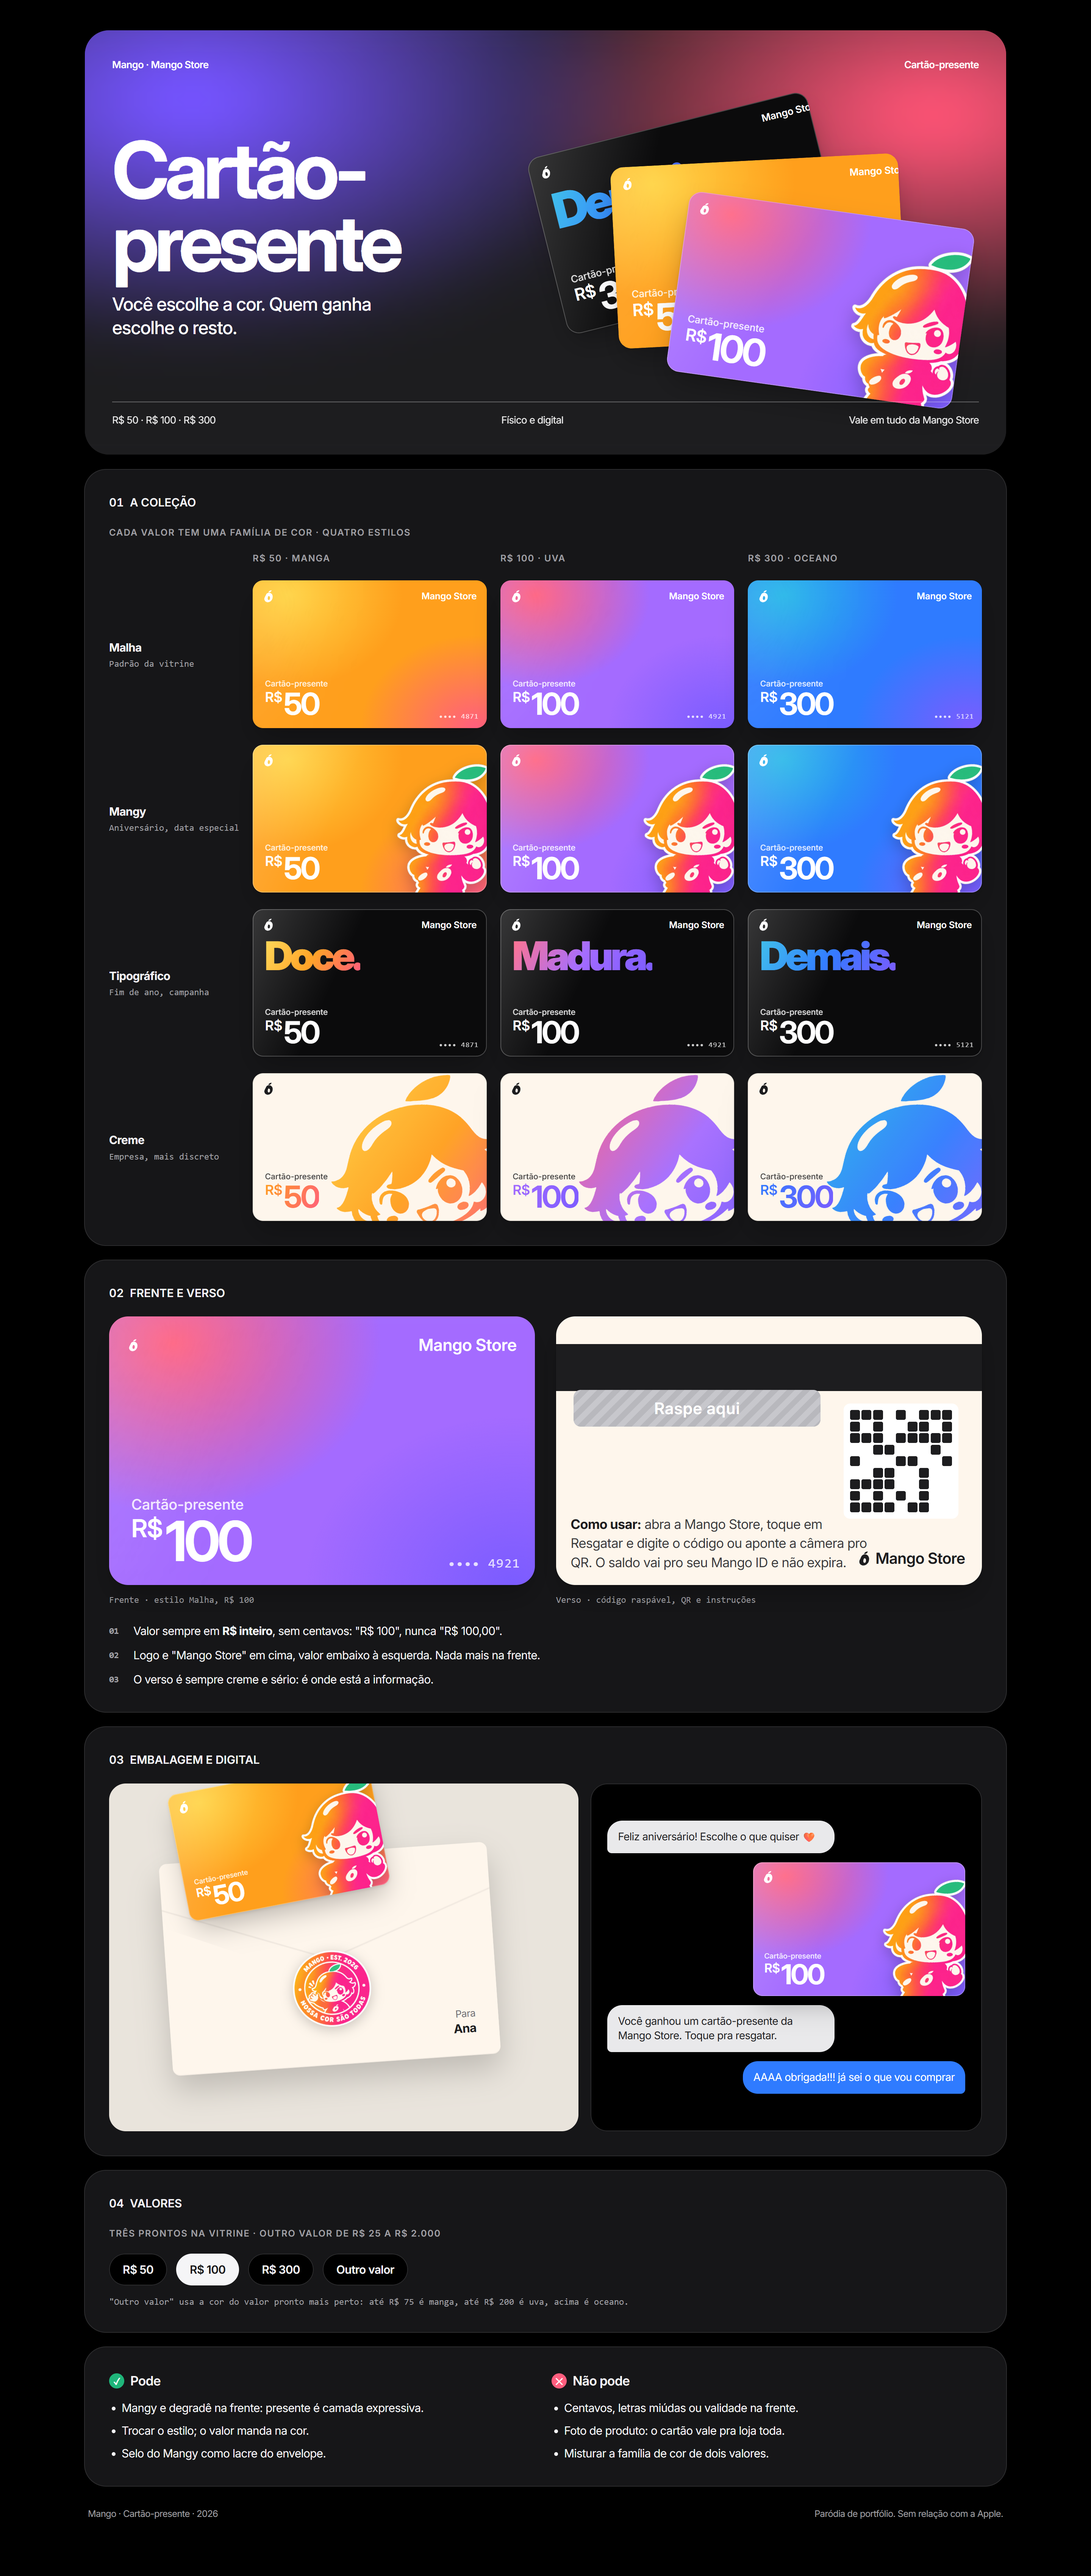
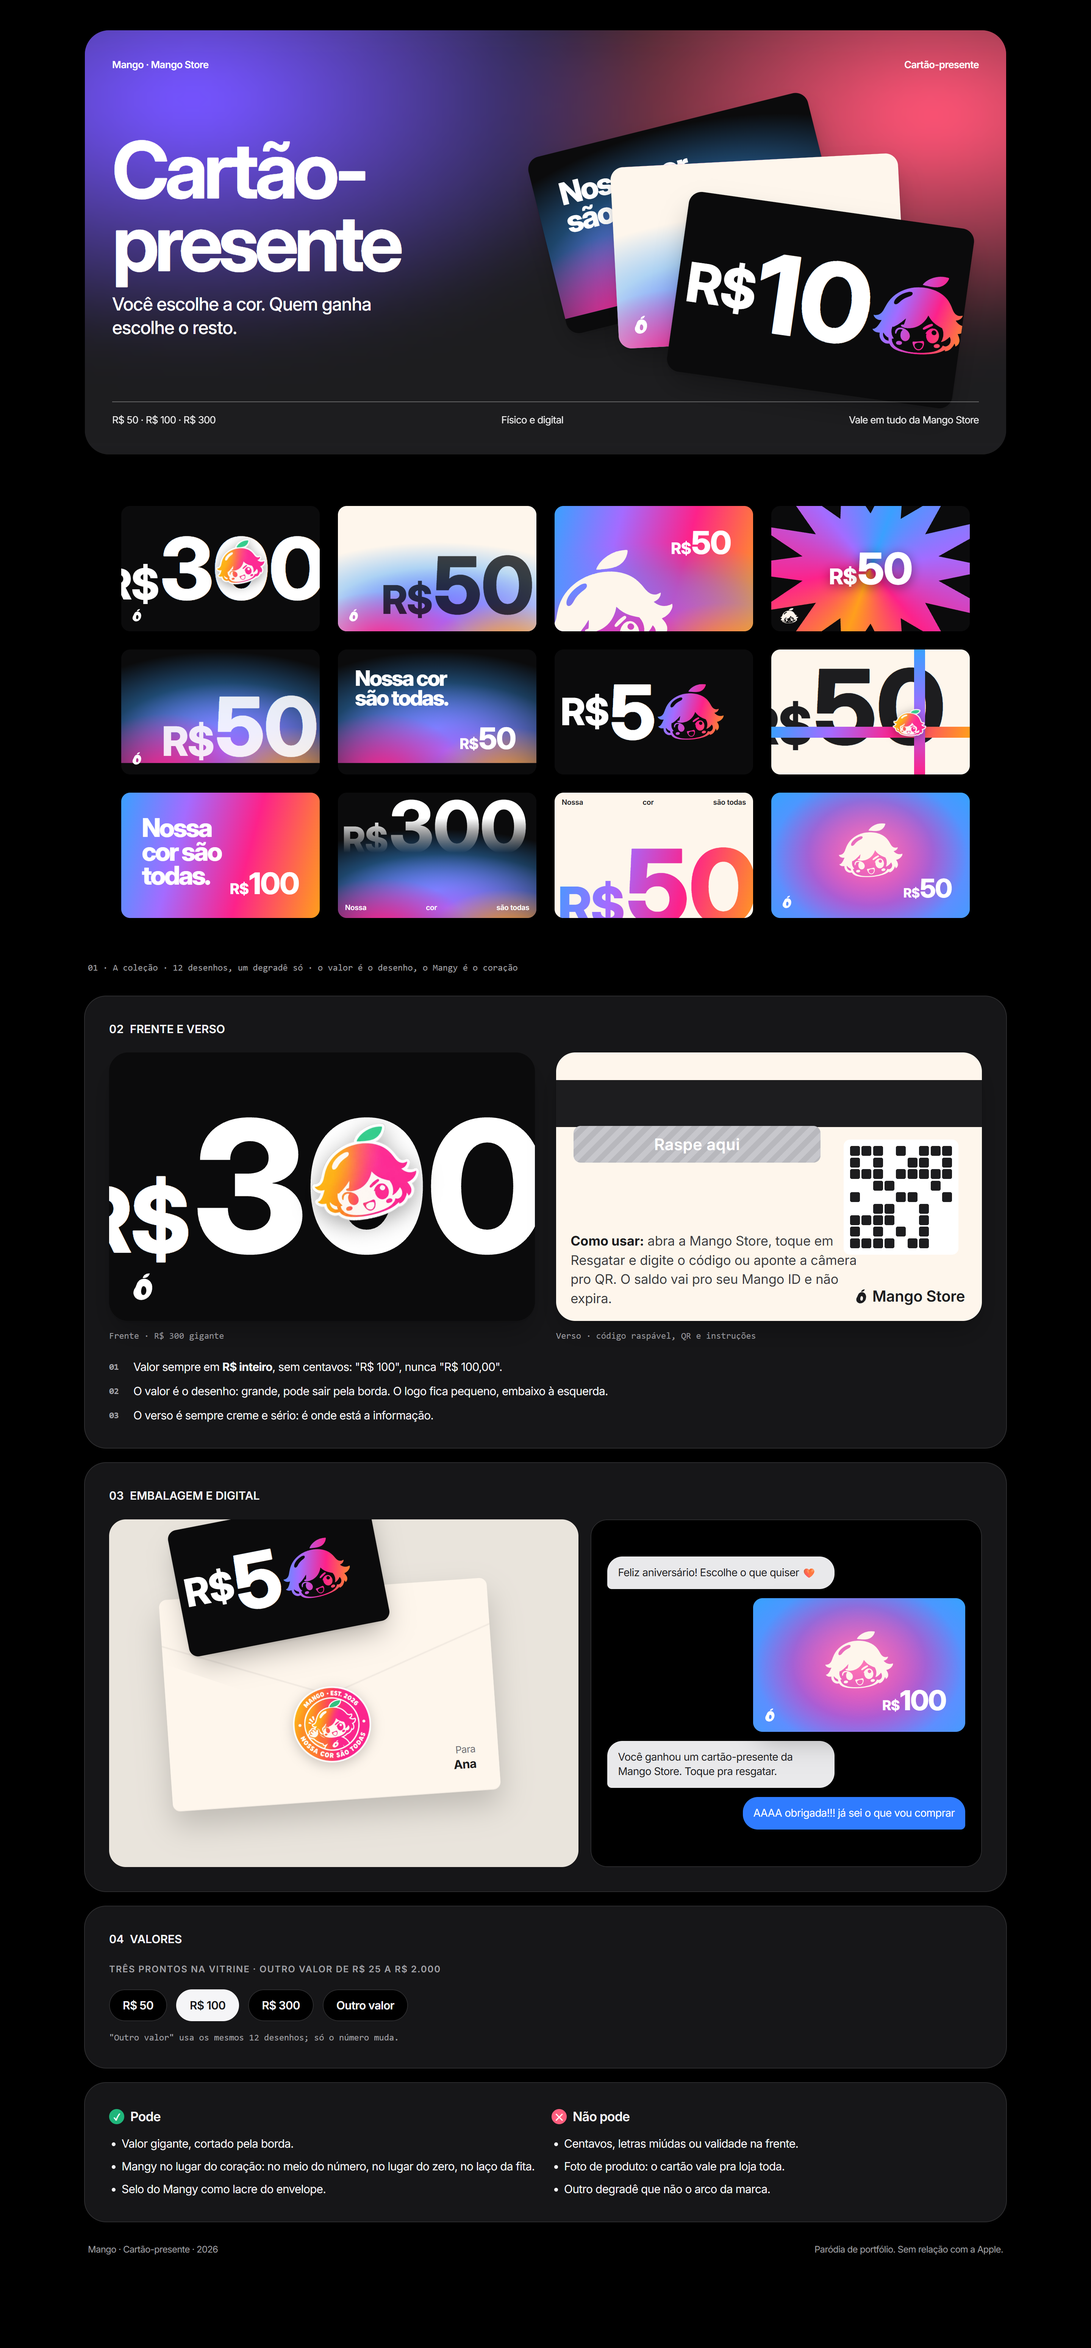
feat(marca): cartões-presente refeitos no estilo Lovable — valor gigante, um degradê, Mangy como coração

diff --git a/escolhas/marca/cartoes.html b/escolhas/marca/cartoes.html
@@ -11,32 +11,39 @@
 <link rel="stylesheet" href="./temas.css">
 <link rel="stylesheet" href="./base.css">
 <style>
-/* Cartão: proporção de cartão de crédito (85,6 × 54 mm). Tudo em em, então o tamanho vem do font-size. */
-/* o conteúdo fica em .in, que mede 5% da largura do cartão (cqw): escala igual em qualquer tamanho */
-.cartao{--w:340px;width:var(--w);aspect-ratio:85.6/54;border-radius:4.5%/7.1%;container-type:inline-size;position:relative;overflow:hidden;color:#fff;flex:none;
-  background:radial-gradient(70% 90% at 15% 10%,var(--a),transparent 70%),radial-gradient(70% 90% at 95% 100%,var(--c),transparent 70%),var(--b);
-  box-shadow:0 2px 4px rgba(0,0,0,.08),0 18px 36px -8px rgba(0,0,0,.28);isolation:isolate}
-.cartao .in{position:absolute;inset:0;font-size:5cqw}
-.cartao::after{content:"";position:absolute;inset:0;border-radius:inherit;box-shadow:inset 0 0 0 1px rgba(255,255,255,.25);background:linear-gradient(115deg,rgba(255,255,255,.18),transparent 38%);pointer-events:none}
-.cartao .topo{position:absolute;left:1.1em;top:1em;right:1.1em;display:flex;justify-content:space-between;align-items:center;font-size:.78em;font-weight:600;letter-spacing:-.01em;z-index:2}
-.cartao .marca{display:flex;align-items:center;gap:.35em;font-size:1.15em;letter-spacing:-.035em}
-.cartao .marca .logo-m{height:1em;width:auto}
-.cartao .valor{position:absolute;left:1.05em;bottom:.9em;z-index:2;line-height:.9}
-.cartao .valor small{display:block;font-size:.68em;font-weight:500;opacity:.85;margin-bottom:.35em;letter-spacing:0}
-.cartao .valor b{font-size:2.6em;font-weight:700;letter-spacing:-.05em}
-.cartao .valor b span{font-size:.45em;font-weight:600;letter-spacing:-.02em;margin-right:.12em;vertical-align:.95em}
-.cartao .cod{position:absolute;right:1.1em;bottom:1.05em;font:500 .62em ui-monospace,Consolas,monospace;opacity:.8;z-index:2;letter-spacing:.06em}
-/* estilos */
-.cartao.mangy img{position:absolute;right:-6%;top:10%;height:112%;width:auto;transform:rotate(9deg);z-index:1;filter:drop-shadow(0 .4em .6em rgba(0,0,0,.2))}
-.cartao.mangy .cod,.cartao.mangy .topo span:last-child,.cartao.creme .cod,.cartao.creme .topo span:last-child{display:none}
-.cartao.tipo{background:#0b0b0c}
-.cartao.tipo .palavra{position:absolute;left:.3em;top:.75em;font-size:3.4em;font-weight:900;letter-spacing:-.07em;line-height:.85;
-  background:linear-gradient(120deg,var(--a),var(--b) 50%,var(--c));-webkit-background-clip:text;background-clip:text;color:transparent}
+/* Cartão: proporção de cartão de crédito (85,6 × 54 mm). O conteúdo fica em .in, onde 1em = 5% da largura (cqw):
+   o cartão é 20em × 12,6em em qualquer tamanho. Estilo Lovable (refs/systems/system-3): o valor é o desenho. */
+.cartao{--w:340px;width:var(--w);aspect-ratio:85.6/54;border-radius:4.5%/7.1%;container-type:inline-size;position:relative;overflow:hidden;flex:none;
+  color:#fff;background:#0b0b0c;box-shadow:0 2px 4px rgba(0,0,0,.08),0 18px 36px -8px rgba(0,0,0,.3);isolation:isolate}
+.cartao .in{position:absolute;inset:0;font-size:5cqw;font-weight:800;letter-spacing:-.06em;line-height:.8}
+.cartao .in>*{position:absolute}
 .cartao.creme{background:#fef6ec;color:#1d1d1f}
-.cartao.creme::after{box-shadow:inset 0 0 0 1px rgba(0,0,0,.06);background:none}
-.cartao.creme .sombra{position:absolute;right:-10%;top:4%;height:104%;aspect-ratio:466/394;background:linear-gradient(135deg,var(--a),var(--b) 55%,var(--c));
-  -webkit-mask:url(mascote/mono-cabeca.webp) center/contain no-repeat;mask:url(mascote/mono-cabeca.webp) center/contain no-repeat;transform:rotate(-8deg);opacity:.95}
-.cartao.creme .valor b{background:linear-gradient(120deg,var(--b),var(--c));-webkit-background-clip:text;background-clip:text;color:transparent}
+.cartao.cheio{background:var(--arco)}
+:root{
+  --arco:linear-gradient(105deg,#3aa0ff,#a46bff 30%,#fd228a 62%,#ff9f1c);
+  --onda:radial-gradient(60% 55% at 22% 108%,#fd228a,transparent 72%),radial-gradient(55% 50% at 85% 112%,#ff9f1c,transparent 70%),
+         radial-gradient(90% 60% at 55% 92%,#a46bff,transparent 72%),radial-gradient(120% 70% at 50% 78%,#3aa0ff,transparent 70%);
+}
+.onda{inset:0;background:var(--onda)}
+.onda.alta{transform:translateY(-22%) scaleY(1.25)}
+.marquinha{left:1em;bottom:.95em;width:1.15em;aspect-ratio:100/116;background:currentColor;-webkit-mask:url(/mango.svg) center/contain no-repeat;mask:url(/mango.svg) center/contain no-repeat}
+.v{white-space:nowrap}
+.v small{font-size:.5em;letter-spacing:-.03em;margin-right:.04em}
+.preenche{background:var(--arco);-webkit-background-clip:text;background-clip:text;color:transparent}
+.cabeca{aspect-ratio:466/394;background:var(--arco);-webkit-mask:url(mascote/mono-cabeca.webp) center/contain no-repeat;mask:url(mascote/mono-cabeca.webp) center/contain no-repeat}
+.cabeca.creme{background:#fef6ec}
+.adesivo-c{filter:drop-shadow(0 .25em .5em rgba(0,0,0,.35))}
+.frase{font-size:2.15em;line-height:.92;letter-spacing:-.055em}
+.espaco{left:1em;right:1em;top:.9em;display:flex;justify-content:space-between;font-size:.72em;font-weight:600;letter-spacing:-.01em;line-height:1}
+.explosao{inset:-30%;background:conic-gradient(from 20deg,#3aa0ff,#a46bff,#fd228a,#ff9f1c,#fd228a,#a46bff,#3aa0ff)}
+.fita-h{left:0;right:0;top:62%;height:1.1em;background:var(--arco)}
+.fita-v{top:0;bottom:0;left:72%;width:1.1em;background:linear-gradient(180deg,#3aa0ff,#a46bff 50%,#fd228a)}
+.aura{inset:0;background:radial-gradient(45% 60% at 50% 48%,#fff6,transparent 70%),radial-gradient(70% 90% at 50% 50%,#fd228a,transparent 70%),radial-gradient(90% 110% at 50% 60%,#a46bff,transparent 75%),#3aa0ff}
+
+/* Grade: os 12 num painel preto, sem legenda, como a referência */
+.colecao{border-radius:28px;background:#000;padding:clamp(20px,3.4vw,48px);display:grid;grid-template-columns:repeat(4,1fr);gap:clamp(12px,1.8vw,24px)}
+.colecao .cartao{--w:100%;width:100%;box-shadow:none}
+@media (max-width:900px){.colecao{grid-template-columns:1fr 1fr}}
 
 /* Capa */
 .capa{border-radius:32px;min-height:560px;color:#fff;display:grid;grid-template-columns:1fr 1.1fr;grid-template-rows:auto 1fr auto;padding:36px;column-gap:24px;overflow:hidden}
@@ -63,6 +70,7 @@
 .fv figure{display:grid;gap:12px}
 .fv .cartao{--w:100%;width:100%}
 .verso{background:#fef6ec;color:#1d1d1f}
+.verso .in{font-weight:400;letter-spacing:0;line-height:1.2}
 .verso::after{display:none}
 .verso .tarja{position:absolute;left:0;right:0;top:1.3em;height:2.2em;background:#1d1d1f}
 .verso .raspe{position:absolute;left:1.1em;top:4.6em;width:58%;height:2.3em;border-radius:.45em;display:grid;place-items:center;font:600 .75em Inter;color:#fff;letter-spacing:.02em;
@@ -125,16 +133,15 @@
     <div class="ficha"><span>R$ 50 · R$ 100 · R$ 300</span><span>Físico e digital</span><span>Vale em tudo da Mango Store</span></div>
   </section>
 
-  <section class="bloco">
-    <h2><span class="num">01</span>A coleção</h2>
-    <p class="rot">Cada valor tem uma família de cor · quatro estilos</p>
-    <div class="grade" id="grade"></div>
+  <section aria-label="A coleção">
+    <div class="colecao" id="grade"></div>
+    <p class="mono" style="padding:10px 4px">01 · A coleção · 12 desenhos, um degradê só · o valor é o desenho, o Mangy é o coração</p>
   </section>
 
   <section class="bloco">
     <h2><span class="num">02</span>Frente e verso</h2>
     <div class="fv">
-      <figure><div id="frente"></div><span class="mono">Frente · estilo Malha, R$ 100</span></figure>
+      <figure><div id="frente"></div><span class="mono">Frente · R$ 300 gigante</span></figure>
       <figure>
         <div class="cartao verso" style="--w:100%;width:100%"><div class="in">
           <span class="tarja"></span>
@@ -148,7 +155,7 @@
     </div>
     <ul class="notas" style="margin-top:22px">
       <li><span>01</span>Valor sempre em <b>R$ inteiro</b>, sem centavos: "R$ 100", nunca "R$ 100,00".</li>
-      <li><span>02</span>Logo e "Mango Store" em cima, valor embaixo à esquerda. Nada mais na frente.</li>
+      <li><span>02</span>O valor é o desenho: grande, pode sair pela borda. O logo fica pequeno, embaixo à esquerda.</li>
       <li><span>03</span>O verso é sempre creme e sério: é onde está a informação.</li>
     </ul>
   </section>
@@ -179,17 +186,17 @@
     <div class="valores">
       <span class="chip-v">R$ 50</span><span class="chip-v on">R$ 100</span><span class="chip-v">R$ 300</span><span class="chip-v">Outro valor</span>
     </div>
-    <p class="mono" style="margin-top:14px">"Outro valor" usa a cor do valor pronto mais perto: até R$ 75 é manga, até R$ 200 é uva, acima é oceano.</p>
+    <p class="mono" style="margin-top:14px">"Outro valor" usa os mesmos 12 desenhos; só o número muda.</p>
   </section>
 
   <section class="bloco regras">
     <div>
       <h3><i style="background:var(--c-verde)">✓</i>Pode</h3>
-      <ul><li>Mangy e degradê na frente: presente é camada expressiva.</li><li>Trocar o estilo; o valor manda na cor.</li><li>Selo do Mangy como lacre do envelope.</li></ul>
+      <ul><li>Valor gigante, cortado pela borda.</li><li>Mangy no lugar do coração: no meio do número, no lugar do zero, no laço da fita.</li><li>Selo do Mangy como lacre do envelope.</li></ul>
     </div>
     <div>
       <h3><i style="background:var(--c-rosa)">✕</i>Não pode</h3>
-      <ul><li>Centavos, letras miúdas ou validade na frente.</li><li>Foto de produto: o cartão vale pra loja toda.</li><li>Misturar a família de cor de dois valores.</li></ul>
+      <ul><li>Centavos, letras miúdas ou validade na frente.</li><li>Foto de produto: o cartão vale pra loja toda.</li><li>Outro degradê que não o arco da marca.</li></ul>
     </div>
   </section>
 
@@ -199,27 +206,58 @@
 import { iniciarTemas } from './temas.js';
 iniciarTemas();
 
-// Valor manda na cor: 50 manga, 100 uva, 300 oceano
-const VALORES = [
-  { v: 50, nome: 'Manga', a: '#ffd23f', b: '#ff9f1c', c: '#ff5e7e', palavra: 'Doce.' },
-  { v: 100, nome: 'Uva', a: '#ff5e7e', b: '#a46bff', c: '#7b5cff', palavra: 'Madura.' },
-  { v: 300, nome: 'Oceano', a: '#22b5e8', b: '#2f7bff', c: '#7b5cff', palavra: 'Demais.' },
+// 12 desenhos (estilo Lovable, refs/systems/system-3). Cada um recebe o valor e devolve o miolo do cartão.
+const RS = v => `<small>R$</small>${v}`;
+const head = (cls, st) => `<span class="cabeca ${cls}" style="${st}"></span>`;
+const stk = st => `<img class="adesivo-c" src="mascote/expressions-1.webp" alt="" style="${st}">`;
+const DESENHOS = [
+  // 1 valor gigante no preto, Mangy no meio dos números
+  ['', v => `<span class="v" style="left:-.2em;top:50%;transform:translateY(-50%);font-size:8.6em">${RS(v)}</span>${stk('left:9.4em;top:3.4em;width:5.2em;transform:rotate(-8deg)')}<span class="marquinha"></span>`],
+  // 2 creme com a onda subindo por trás do número
+  ['creme', v => `<span class="onda"></span><span class="v" style="left:.55em;top:.6em;font-size:8em;color:rgba(29,29,31,.82);mix-blend-mode:multiply">${RS(v)}</span><span class="marquinha" style="color:#fff"></span>`],
+  // 3 cabeça gigante saindo pelo canto
+  ['cheio', v => `<span class="onda" style="opacity:.6"></span>${head('creme', 'left:-1.2em;bottom:-3.2em;width:13em;transform:rotate(-10deg)')}<span class="v" style="right:.7em;top:.75em;font-size:3.2em">${RS(v)}</span>`],
+  // 4 explosão
+  ['', v => `<span class="explosao"></span><span class="v" style="left:50%;top:50%;transform:translate(-50%,-50%);font-size:4.4em;text-shadow:0 .05em .25em #0007">${RS(v)}</span>${head('creme', 'left:.9em;bottom:.8em;width:1.8em')}`],
+  // 5 número claro afundando na onda
+  ['', v => `<span class="onda alta"></span><span class="v" style="left:.5em;top:.55em;font-size:8.2em;color:rgba(255,255,255,.88)">${RS(v)}</span><span class="marquinha"></span>`],
+  // 6 slogan + onda
+  ['', v => `<span class="onda alta"></span><span class="frase" style="left:.8em;top:.9em">Nossa cor<br>são todas.</span><span class="v" style="right:.7em;bottom:.8em;font-size:3em">${RS(v)}</span>`],
+  // 7 o Mangy é o zero
+  ['', v => `<span class="v" style="left:.08em;top:50%;transform:translateY(-50%);font-size:7.6em;display:flex;align-items:center">${RS(String(v).slice(0, -1))}<span class="cabeca" style="position:static;height:.74em;margin-left:.03em"></span></span>`],
+  // 8 presente: fita cruzada, Mangy no laço
+  ['creme', v => `<span class="v" style="left:-.25em;top:.15em;font-size:10.5em">${RS(v)}</span><span class="fita-h"></span><span class="fita-v"></span>${stk('left:12.3em;top:5.9em;width:3.4em;transform:rotate(10deg)')}`],
+  // 9 slogan no degradê cheio
+  ['cheio', v => `<span class="frase" style="left:.8em;top:.9em;font-size:2.6em">Nossa<br>cor são<br>todas.</span><span class="v" style="right:.7em;bottom:.75em;font-size:3em">${RS(v)}</span>`],
+  // 10 número que some na onda + rodapé espaçado
+  ['', v => `<span class="onda"></span><span class="v" style="left:.06em;top:.08em;font-size:7.2em;background:linear-gradient(180deg,#fff 35%,#fff0 95%);-webkit-background-clip:text;background-clip:text;color:transparent">${RS(v)}</span><span class="espaco" style="top:auto;bottom:.9em"><span>Nossa</span><span>cor</span><span>são todas</span></span>`],
+  // 11 creme, palavras no topo, número em degradê saindo por baixo
+  ['creme', v => `<span class="espaco"><span>Nossa</span><span>cor</span><span>são todas</span></span><span class="v preenche" style="left:.03em;bottom:-.1em;font-size:10.5em">${RS(v)}</span>`],
+  // 12 aura com a cabeça brilhando
+  ['', v => `<span class="aura"></span>${head('creme', 'left:50%;top:46%;width:6.4em;transform:translate(-50%,-50%);filter:drop-shadow(0 0 .8em #fff8)')}<span class="v" style="right:.7em;bottom:.75em;font-size:2.6em">${RS(v)}</span><span class="marquinha"></span>`],
 ];
-const ESTILOS = [['malha', 'Malha', 'Padrão da vitrine'], ['mangy', 'Mangy', 'Aniversário, data especial'], ['tipo', 'Tipográfico', 'Fim de ano, campanha'], ['creme', 'Creme', 'Empresa, mais discreto']];
-const cartao = ({ v, a, b, c, palavra }, estilo, w) => {
-  const miolo = { mangy: '<img src="mascote/mangy-final-1.webp" alt="">', tipo: `<span class="palavra">${palavra}</span>`, creme: '<span class="sombra"></span>' }[estilo] ?? '';
-  return `<div class="cartao ${estilo}" style="--a:${a};--b:${b};--c:${c}${w ? `;--w:${w}` : ''}" role="img" aria-label="Cartão-presente de R$ ${v}, estilo ${estilo}">
-    <div class="in">${miolo}<div class="topo"><span class="marca"><span class="logo-m"></span>Mango</span><span>Mango Store</span></div>
-    <div class="valor"><small>Cartão-presente</small><b><span>R$</span>${v}</b></div><span class="cod">•••• ${String(4821 + v).slice(-4)}</span></div></div>`;
+// valores como na referência: quase todos 50, alguns 300 e 100
+const VAL = [300, 50, 50, 50, 50, 50, 50, 50, 100, 300, 50, 50];
+const cartao = (i, v = VAL[i], w) => {
+  const [cls, miolo] = DESENHOS[i];
+  return `<div class="cartao ${cls}" style="${w ? `--w:${w}` : ''}" role="img" aria-label="Cartão-presente Mango Store de R$ ${v}"><div class="in">${miolo(v)}</div></div>`;
 };
 
-document.getElementById('pilha').innerHTML = [cartao(VALORES[2], 'tipo'), cartao(VALORES[0], 'malha'), cartao(VALORES[1], 'mangy')].join('');
-document.getElementById('grade').innerHTML =
-  `<span></span>${VALORES.map(x => `<span class="cab">R$ ${x.v} · ${x.nome}</span>`).join('')}` +
-  ESTILOS.map(([id, nome, uso]) => `<div class="lin"><b>${nome}</b><span class="mono">${uso}</span></div>${VALORES.map(x => cartao(x, id)).join('')}`).join('');
-document.getElementById('frente').innerHTML = cartao(VALORES[1], 'malha', '100%');
-document.getElementById('no-envelope').innerHTML = cartao(VALORES[0], 'mangy', '62%');
-document.getElementById('no-chat').innerHTML = cartao(VALORES[1], 'mangy', '280px');
+document.getElementById('pilha').innerHTML = [cartao(5, 100), cartao(1, 50), cartao(6, 100)].join('');
+document.getElementById('grade').innerHTML = DESENHOS.map((_, i) => cartao(i)).join('');
+document.getElementById('frente').innerHTML = cartao(0, 300, '100%');
+document.getElementById('no-envelope').innerHTML = cartao(6, 50, '62%');
+document.getElementById('no-chat').innerHTML = cartao(11, 100, '280px');
+
+// Explosão: estrela de 14 pontas recortada no conic-gradient
+document.querySelectorAll('.explosao').forEach(el => {
+  const p = [];
+  for (let k = 0; k < 28; k++) {
+    const r = k % 2 ? 22 : 46 + (k % 4 ? 4 : -6), t = k / 28 * Math.PI * 2;
+    p.push(`${(50 + r * Math.cos(t)).toFixed(1)}% ${(50 + r * Math.sin(t) * 1.25).toFixed(1)}%`);
+  }
+  el.style.clipPath = `polygon(${p.join(',')})`;
+});
 
 // QR de mentira: 9x9 com os três cantos de QR e o miolo sorteado (fixo pela semente)
 let s = 7;

diff --git a/docs/RETOMAR.md b/docs/RETOMAR.md
@@ -58,7 +58,7 @@ expressiva para campanhas, merch, adesivos e redes.
 3. **Adesivos por IA, um por um.** Próximo: **Manga veloz** (prompt pronto em `refs/prompts-adesivos.md`).
    Depois urso, kaiju, rabisco; depois padrão próprio para letreiros e selos.
 4. ~~`apps.html`~~ e ~~`cartoes.html`~~ (26/11): **kit da marca fechado.** Apps do MangoOS usam degradê (exceção no MARCA.md);
-   cartão-presente: R$ 50 manga, R$ 100 uva, R$ 300 oceano × 4 estilos (malha, Mangy, tipográfico, creme).
+   cartão-presente: 12 desenhos no estilo Lovable (system-3): valor gigante, um degradê só (arco), Mangy no lugar do coração.
 
 **Próximo (26/11): Fase 1 do livro, "A base"** — rotas + catálogo + layout comum (item 2 dos "Primeiros passos"),
 depois a loja em `/loja`. Adesivos ficam pro fim, depois da loja inteira.
